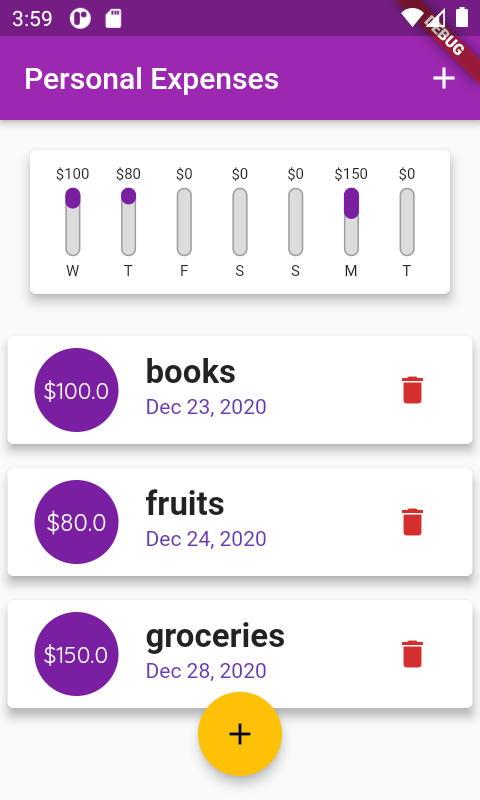
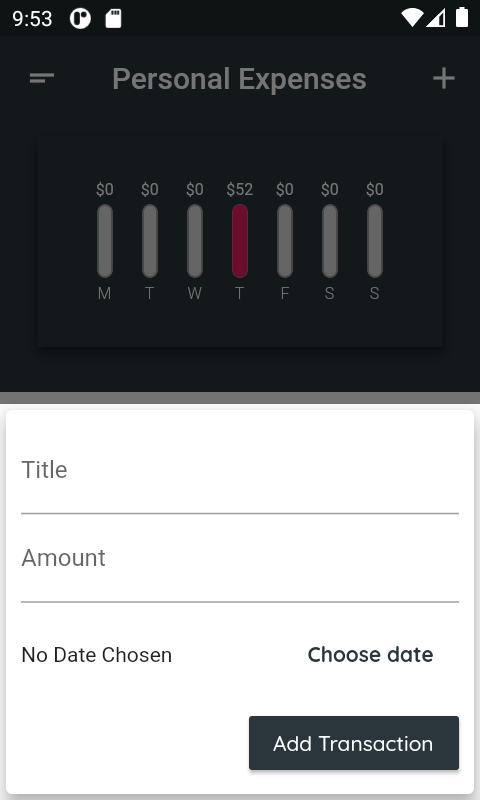
UI updated

diff --git a/Expenses_app/lib/main.dart b/Expenses_app/lib/main.dart
@@ -20,13 +20,29 @@ void main() {
 }
 
 class MyApp extends StatelessWidget {
+  static const Map<int, Color> colorMap = {
+    50: Color.fromRGBO(42, 54, 59, 0.1),
+    100: Color.fromRGBO(42, 54, 59, 0.2),
+    200: Color.fromRGBO(42, 54, 59, 0.3),
+    300: Color.fromRGBO(42, 54, 59, 0.4),
+    400: Color.fromRGBO(42, 54, 59, 0.5),
+    500: Color.fromRGBO(42, 54, 59, 0.6),
+    600: Color.fromRGBO(42, 54, 59, 0.7),
+    700: Color.fromRGBO(42, 54, 59, 0.8),
+    800: Color.fromRGBO(42, 54, 59, 0.9),
+    900: Color.fromRGBO(42, 54, 59, 1.0),
+  };
+
+  static const MaterialColor _2A3638 = MaterialColor(0xFF2A363B, colorMap);
+
   @override
   Widget build(BuildContext context) {
     return Platform.isIOS
         ? CupertinoApp(
             title: 'Personal Expenses',
+            debugShowCheckedModeBanner: false,
             theme: CupertinoThemeData(
-                primaryColor: Colors.purple,
+                primaryColor: _2A3638,
                 primaryContrastingColor: Colors.white,
                 textTheme: CupertinoTextThemeData(
                   textStyle: TextStyle(fontFamily: 'Quicksand'),
@@ -34,15 +50,18 @@ class MyApp extends StatelessWidget {
             home: MyHomePage(),
           )
         : MaterialApp(
+            debugShowCheckedModeBanner: false,
             title: 'Personal Expenses',
             theme: ThemeData(
-                primarySwatch: Colors.purple,
-                accentColor: Colors.amber,
-                fontFamily: 'Quicksand',
-                textTheme: ThemeData.light().textTheme.copyWith(
-                        button: TextStyle(
+              primarySwatch: _2A3638,
+              // accentColor: Colors.amber,
+              fontFamily: 'Quicksand',
+              textTheme: ThemeData.light().textTheme.copyWith(
+                    button: TextStyle(
                       color: Colors.white,
-                    ))),
+                    ),
+                  ),
+            ),
             home: MyHomePage(),
           );
   }
@@ -159,11 +178,13 @@ class _MyHomePageState extends State<MyHomePage> with WidgetsBindingObserver {
       MediaQueryData mediaquery, AppBar appBar, Widget txlistwidget) {
     return [
       Container(
-          height: (mediaquery.size.height -
-                  appBar.preferredSize.height -
-                  mediaquery.padding.top) *
-              0.3,
-          child: Chart(_recentTransaction)),
+        color: Theme.of(context).primaryColor,
+        height: (mediaquery.size.height -
+                appBar.preferredSize.height -
+                mediaquery.padding.top) *
+            0.4,
+        child: Chart(_recentTransaction),
+      ),
       txlistwidget
     ];
   }
@@ -193,6 +214,12 @@ class _MyHomePageState extends State<MyHomePage> with WidgetsBindingObserver {
                 ]),
           )
         : AppBar(
+            leading: IconButton(
+              icon: const Icon(Icons.short_text),
+              onPressed: () {},
+            ),
+            centerTitle: true,
+            elevation: 0,
             title: Text(
               'Personal Expenses',
               style: TextStyle(fontFamily: 'Open Sans'),
@@ -205,11 +232,12 @@ class _MyHomePageState extends State<MyHomePage> with WidgetsBindingObserver {
           );
 
     final txlistwidget = Container(
-        height: (mediaquery.size.height -
-                appBar.preferredSize.height -
-                mediaquery.padding.top) *
-            0.7,
-        child: TransactionList(_userTransaction, _deleteTransaction));
+      height: (mediaquery.size.height -
+              appBar.preferredSize.height -
+              mediaquery.padding.top) *
+          0.7,
+      child: TransactionList(_userTransaction, _deleteTransaction),
+    );
 
     final pageBody = SafeArea(
         child: SingleChildScrollView(

diff --git a/Expenses_app/lib/widgets/chart_bar.dart b/Expenses_app/lib/widgets/chart_bar.dart
@@ -5,7 +5,7 @@ class ChartBar extends StatelessWidget {
   final double spendingAmount;
   final double spendingPctOfTOtal;
 
- const ChartBar(this.label, this.spendingAmount, this.spendingPctOfTOtal);
+  const ChartBar(this.label, this.spendingAmount, this.spendingPctOfTOtal);
 
   @override
   Widget build(BuildContext context) {
@@ -13,9 +13,14 @@ class ChartBar extends StatelessWidget {
       return Column(
         children: <Widget>[
           Container(
-              height: constraints.maxHeight * 0.15,
-              child: FittedBox(
-                  child: Text('\$${spendingAmount.toStringAsFixed(0)}'))),
+            height: constraints.maxHeight * 0.15,
+            child: FittedBox(
+              child: Text(
+                '\$${spendingAmount.toStringAsFixed(0)}',
+                style: TextStyle(color: Colors.white),
+              ),
+            ),
+          ),
           SizedBox(
             height: constraints.maxHeight * 0.05,
           ),
@@ -35,7 +40,7 @@ class ChartBar extends StatelessWidget {
                   heightFactor: spendingPctOfTOtal,
                   child: Container(
                     decoration: BoxDecoration(
-                      color: Theme.of(context).primaryColorDark,
+                      color: Colors.pink,
                       borderRadius: BorderRadius.circular(10),
                     ),
                   ),
@@ -48,7 +53,14 @@ class ChartBar extends StatelessWidget {
           ),
           Container(
               height: constraints.maxHeight * 0.15,
-              child: FittedBox(child: Text(label))),
+              child: FittedBox(
+                  child: Text(
+                label,
+                style: TextStyle(
+                  color: Colors.white,
+                  fontWeight: FontWeight.w300,
+                ),
+              ))),
         ],
       );
     });
@@ -67,8 +79,7 @@ class ChartBar extends StatelessWidget {
 // constraints - it defines how much space a widget takes. all built-in widgets in flutter has default constraints.
 // constraints always refer to height and width and are expressed as minimum or maximum height or width.
 
-
 // It's possible to declare a constructor as const if all its parameter are final, cause that means that instance of constructor can
-// never be changed. 
+// never be changed.
 // constructor can not be declared as const if it has any non-final parameter.
-// chartbar constructor is declared as const above.  
+// chartbar constructor is declared as const above.

diff --git a/Expenses_app/lib/widgets/transaction_item.dart b/Expenses_app/lib/widgets/transaction_item.dart
@@ -1,18 +1,29 @@
+import 'dart:math';
+
 import 'package:flutter/material.dart';
 import 'package:intl/intl.dart'; // for using dateformat
 
 import '../models/transaction.dart';
 
 class TransactionItem extends StatelessWidget {
-  const TransactionItem({
+  TransactionItem({
     Key key,
     @required this.transaction,
     @required this.deletetx,
+    @required this.randomNumber,
   }) : super(key: key);
 
   final Transaction transaction;
   final Function deletetx;
+  final int randomNumber;
 
+  final List<Color> colorpick = [
+    Colors.pink.shade200,
+    Colors.red.shade200,
+    Colors.blue.shade200,
+    Colors.orange.shade200,
+    Colors.green.shade200
+  ];
   @override
   Widget build(BuildContext context) {
     return Card(
@@ -20,10 +31,15 @@ class TransactionItem extends StatelessWidget {
       elevation: 5,
       child: ListTile(
         leading: CircleAvatar(
+          backgroundColor: colorpick[randomNumber],
           radius: 30,
           child: Padding(
             padding: const EdgeInsets.all(8.0),
-            child: FittedBox(child: Text('\$${transaction.amount}')),
+            child: FittedBox(
+                child: Text(
+              '\$${transaction.amount}',
+              style: TextStyle(fontWeight: FontWeight.bold),
+            )),
           ),
         ),
         title: Text(

diff --git a/Expenses_app/lib/widgets/chart.dart b/Expenses_app/lib/widgets/chart.dart
@@ -40,12 +40,24 @@ class Chart extends StatelessWidget {
 
   @override
   Widget build(BuildContext context) {
-    print(groupedTransactionValues);
+    // print(groupedTransactionValues);
     return Card(
+      color: Theme.of(context).primaryColor,
       elevation: 6,
-      margin: EdgeInsets.all(20),
+      margin: EdgeInsets.only(bottom: 30, top: 10, left: 25, right: 25),
       child: Container(
-        padding: EdgeInsets.all(10),
+        decoration: BoxDecoration(
+          color: Theme.of(context).primaryColor,
+          boxShadow: [
+            BoxShadow(
+              color: Colors.black26.withOpacity(0.3),
+              spreadRadius: 1,
+              blurRadius: 7,
+              offset: Offset(0, 3), // changes position of shadow
+            ),
+          ],
+        ),
+        padding: EdgeInsets.all(30),
         child: Row(
           mainAxisAlignment: MainAxisAlignment.spaceAround,
           children: groupedTransactionValues.map((data) {

diff --git a/Expenses_app/lib/widgets/transaction_list.dart b/Expenses_app/lib/widgets/transaction_list.dart
@@ -1,3 +1,4 @@
+import 'dart:math';
 import 'package:flutter/material.dart';
 import '../models/transaction.dart';
 import 'transaction_item.dart';
@@ -7,6 +8,7 @@ class TransactionList extends StatelessWidget {
   final Function deletetx;
 
   TransactionList(this.transactions, this.deletetx);
+  Random random = new Random();
 
   @override
   Widget build(BuildContext context) {
@@ -35,7 +37,9 @@ class TransactionList extends StatelessWidget {
         : ListView.builder(
             itemBuilder: (ctx, index) {
               return TransactionItem(
-                  transaction: transactions[index], deletetx: deletetx);
+                  transaction: transactions[index],
+                  deletetx: deletetx,
+                  randomNumber: random.nextInt(5));
             },
             itemCount: transactions.length,
           );
